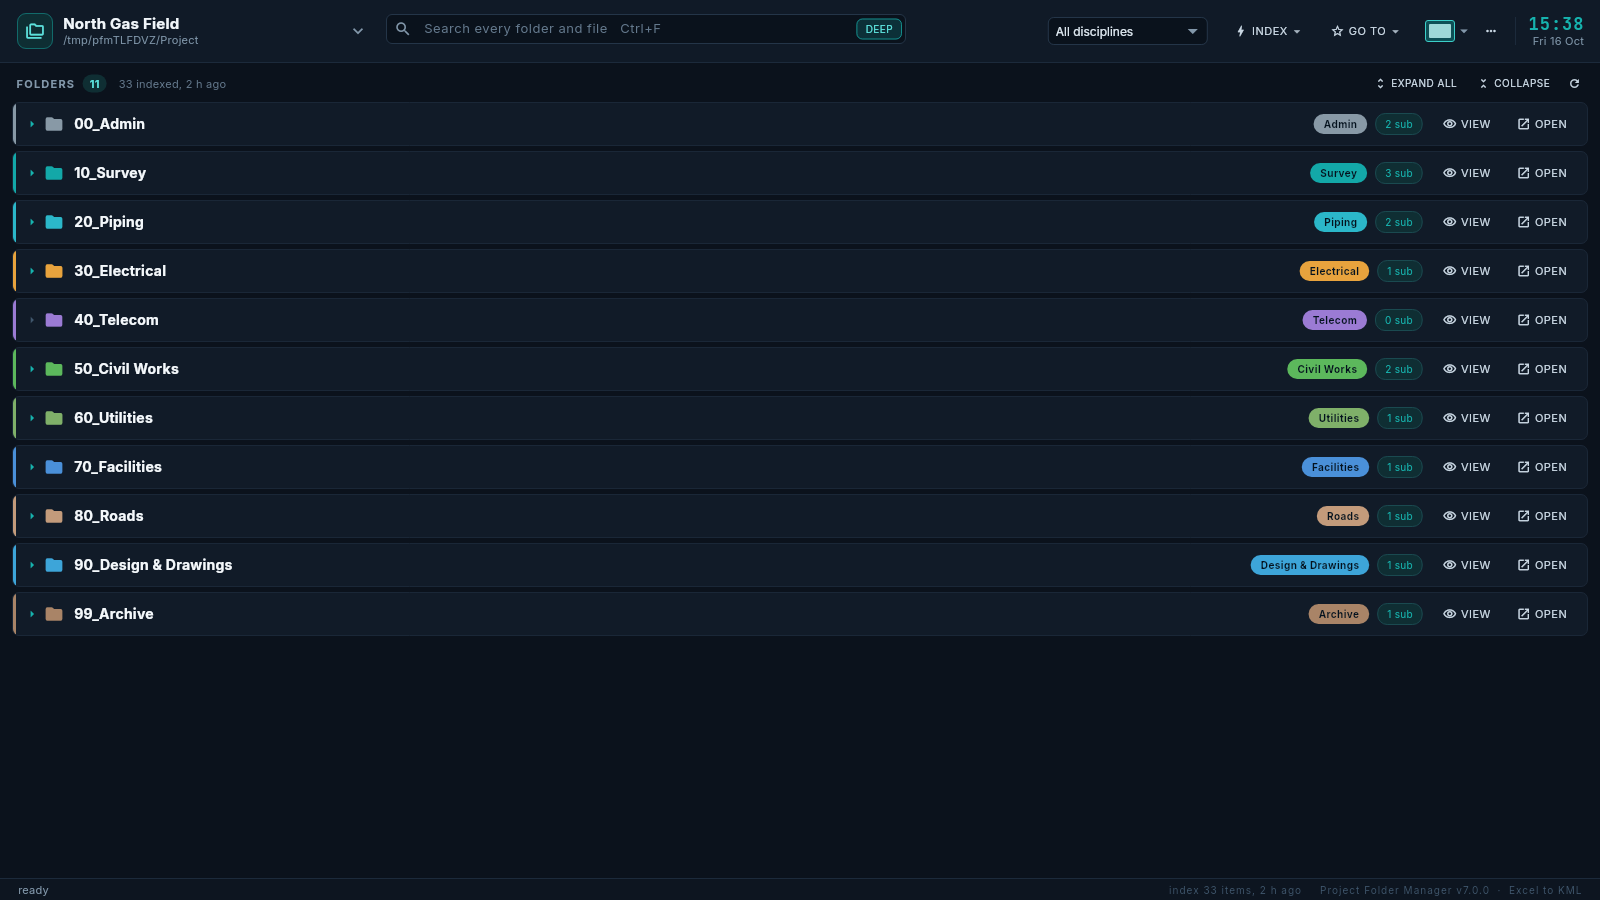
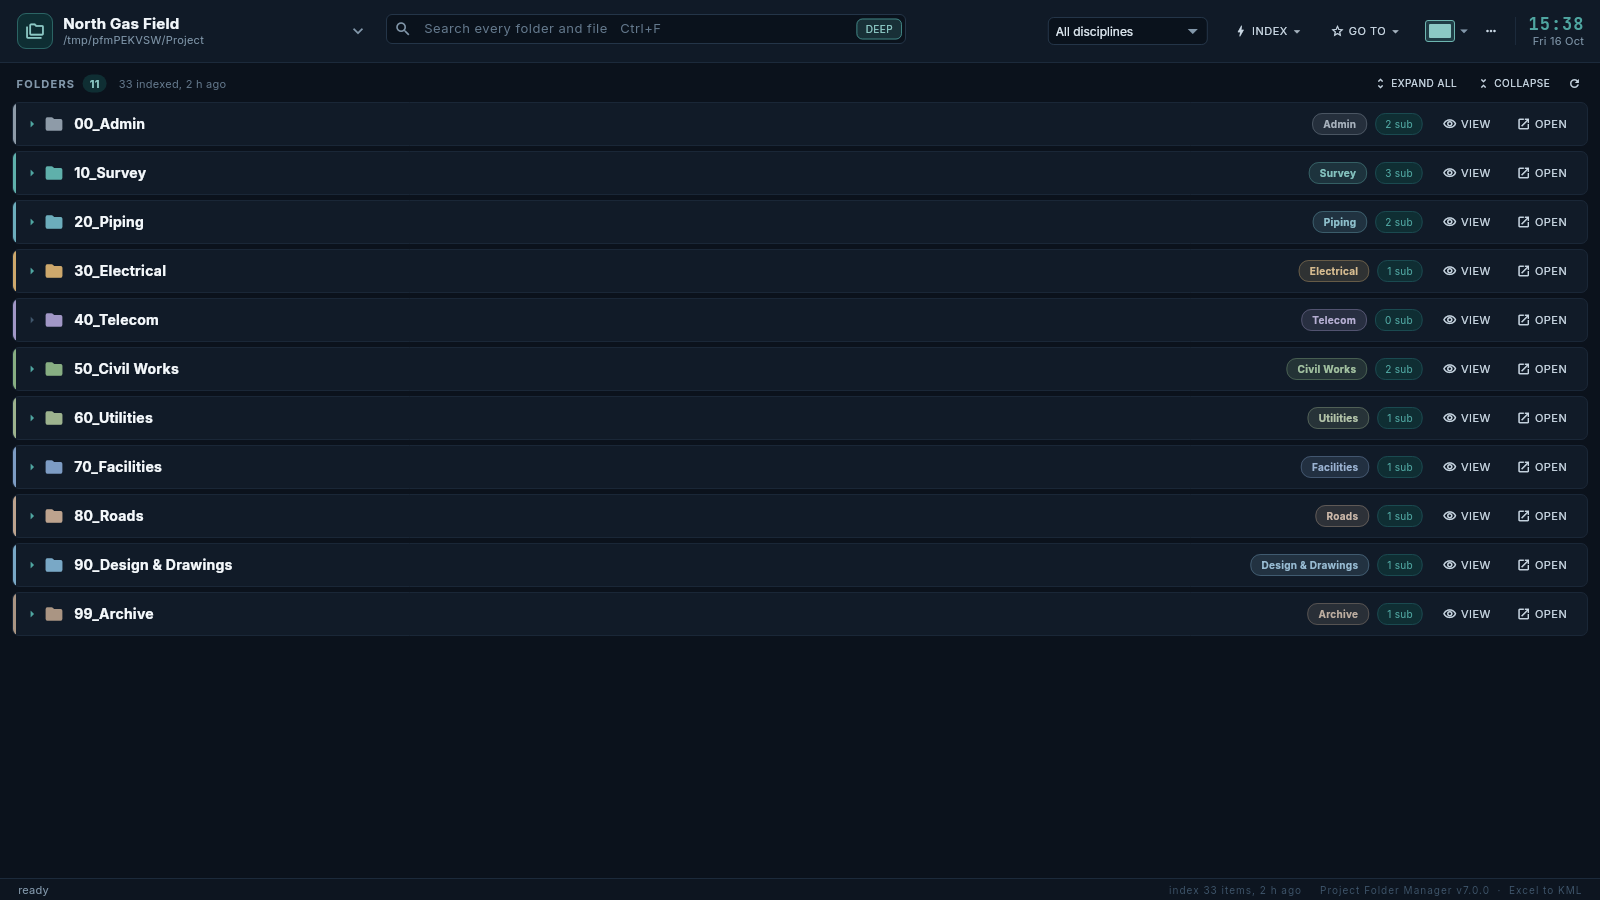
Softer colours: muted teal, amber and disciplines; tinted chips
- Teal, amber, red and green are calmer; the disciplines and file types
  use muted versions of the same hues.
- Discipline and file-type chips are a soft tint with a light border
  instead of a solid bright block; the discipline picker matches.
- Buttons no longer flash solid teal under the mouse: a soft tint, and
  the main action only brightens a little.

Claude-Session: https://claude.ai/code/session_01WBEY1H8rXcGm4de5BZo5nb

diff --git a/lib/src/ui/widgets.dart b/lib/src/ui/widgets.dart
@@ -54,22 +54,22 @@ class _BtnState extends State<Btn> {
     Gradient? g;
     Color bg, fg, edge;
     if (ghost) {
-      bg = widget.lit ? const Color(0x3313A8A8) : (hot ? const Color(0x2213A8A8) : Colors.transparent);
+      bg = widget.lit ? C.teal.withValues(alpha: .2) : (hot ? C.teal.withValues(alpha: .13) : Colors.transparent);
       fg = widget.lit || hot ? C.tealHi : C.btnText;
       edge = widget.lit ? C.teal.withValues(alpha: .7) : (hot ? C.fieldEdge : Colors.transparent);
     } else if (hot && kind == BtnKind.amber) {
-      bg = C.amber;
-      fg = const Color(0xFF241A00);
-      edge = C.amberHi;
-    } else if (hot) {
-      bg = C.teal;
-      fg = C.ink;
-      edge = C.tealEdge;
+      bg = C.amber.withValues(alpha: .2);
+      fg = C.amberHi;
+      edge = C.amber.withValues(alpha: .7);
     } else if (kind == BtnKind.on) {
-      bg = C.onTop;
-      g = const LinearGradient(begin: Alignment.topCenter, end: Alignment.bottomCenter, colors: [C.onTop, C.onBottom]);
+      // the main action: a soft teal, a little brighter under the mouse
+      bg = hot ? C.tealEdge : C.onTop;
       fg = C.ink;
-      edge = C.tealEdge;
+      edge = hot ? C.tealHi : C.tealEdge;
+    } else if (hot) {
+      bg = C.teal.withValues(alpha: .16);
+      fg = C.tealHi;
+      edge = C.teal.withValues(alpha: .7);
     } else {
       bg = C.btnTop;
       g = const LinearGradient(
@@ -289,10 +289,14 @@ class DisciplineChip extends StatelessWidget {
         message: onTap == null ? discipline : 'Change the discipline',
         child: Container(
           padding: const EdgeInsets.symmetric(horizontal: 10, vertical: 3),
-          decoration: BoxDecoration(color: disciplineColor(discipline), borderRadius: BorderRadius.circular(10)),
+          decoration: BoxDecoration(
+            color: disciplineColor(discipline).withValues(alpha: .16),
+            border: Border.all(color: disciplineColor(discipline).withValues(alpha: .35)),
+            borderRadius: BorderRadius.circular(10),
+          ),
           child: Text(
             discipline,
-            style: t(10, color: C.ink, w: FontWeight.bold, ls: .4),
+            style: t(10, color: Color.lerp(disciplineColor(discipline), C.white, .25)!, w: FontWeight.w600, ls: .3),
           ),
         ),
       ),
@@ -326,11 +330,15 @@ class ExtChip extends StatelessWidget {
     return Container(
       constraints: const BoxConstraints(minWidth: 40),
       padding: const EdgeInsets.symmetric(horizontal: 7, vertical: 1),
-      decoration: BoxDecoration(color: c ?? C.chipGrey, borderRadius: BorderRadius.circular(3)),
+      decoration: BoxDecoration(
+        color: (c ?? C.chipGrey).withValues(alpha: .18),
+        border: Border.all(color: (c ?? C.chipGrey).withValues(alpha: .35)),
+        borderRadius: BorderRadius.circular(4),
+      ),
       child: Text(
         extLabel(fileName),
         textAlign: TextAlign.center,
-        style: t(9, color: c == null ? C.btnText : C.ink, w: FontWeight.bold, h: 1.5),
+        style: t(9, color: Color.lerp(c ?? C.btnText, C.white, .2)!, w: FontWeight.w600, h: 1.5),
       ),
     );
   }
@@ -394,7 +402,7 @@ class LayoutPicture extends StatelessWidget {
     width: 30,
     height: 22,
     decoration: BoxDecoration(
-      color: on ? const Color(0xFF0E4F55) : C.btnBottom,
+      color: on ? C.teal.withValues(alpha: .25) : C.btnBottom,
       border: Border.all(color: on ? C.tealEdge : C.fieldEdge),
       borderRadius: BorderRadius.circular(3),
     ),
@@ -408,9 +416,7 @@ class LayoutPicture extends StatelessWidget {
             height: r[3].toDouble(),
             child: Container(
               decoration: BoxDecoration(
-                color: r[4] == 1
-                    ? (on ? C.amberHi : C.amber)
-                    : (on ? const Color(0xFF9FD8D8) : const Color(0xFF4F7A96)),
+                color: r[4] == 1 ? (on ? C.amberHi : C.amber) : (on ? C.tealHi : const Color(0xFF5B7489)),
                 borderRadius: BorderRadius.circular(1),
               ),
             ),

diff --git a/lib/src/core/disciplines.dart b/lib/src/core/disciplines.dart
@@ -4,23 +4,23 @@ import 'dart:ui' show Color;
 
 /// Every discipline a module can have, in the order the picker shows them
 const disciplines = <String, Color>{
-  'Admin': Color(0xFF8899A6),
-  'Survey': Color(0xFF13A8A8),
-  'Piping': Color(0xFF2BB7C9),
-  'Electrical': Color(0xFFE8A33D),
-  'Telecom': Color(0xFF9B7BD4),
-  'Civil Works': Color(0xFF5CB85C),
-  'Utilities': Color(0xFF7FB069),
-  'Facilities': Color(0xFF4A90D9),
-  'Roads': Color(0xFFC39B7B),
-  'Design & Drawings': Color(0xFF3DA5D9),
-  'Archive': Color(0xFFA98467),
-  'Mechanical': Color(0xFF4A90D9),
-  'HSE': Color(0xFFE8734A),
-  'QA / QC': Color(0xFFD4C13D),
-  'Documents & Reports': Color(0xFFC39B7B),
-  'Correspondence': Color(0xFFE85A9B),
-  uncategorised: Color(0xFF6C7A89),
+  'Admin': Color(0xFF8E9BA8),
+  'Survey': Color(0xFF5FB0AB),
+  'Piping': Color(0xFF6CADBC),
+  'Electrical': Color(0xFFCDA86C),
+  'Telecom': Color(0xFFA197C6),
+  'Civil Works': Color(0xFF87AE82),
+  'Utilities': Color(0xFF9DB38E),
+  'Facilities': Color(0xFF7D9CC4),
+  'Roads': Color(0xFFBDA38E),
+  'Design & Drawings': Color(0xFF79A8C6),
+  'Archive': Color(0xFFAA9583),
+  'Mechanical': Color(0xFF8798C2),
+  'HSE': Color(0xFFC7917D),
+  'QA / QC': Color(0xFFC0B47A),
+  'Documents & Reports': Color(0xFFB9A792),
+  'Correspondence': Color(0xFFC291A9),
+  uncategorised: Color(0xFF7D8894),
 };
 
 const uncategorised = 'Uncategorised';
@@ -56,29 +56,29 @@ String guessDiscipline(String folderName) {
 }
 
 const _extColors = <String, Color>{
-  'dwg': Color(0xFFF5A524),
-  'dxf': Color(0xFFF5A524),
-  'pdf': Color(0xFFE8574A),
-  'xls': Color(0xFF5CB85C),
-  'xlsx': Color(0xFF5CB85C),
-  'xlsm': Color(0xFF5CB85C),
-  'csv': Color(0xFF5CB85C),
-  'doc': Color(0xFF4A90D9),
-  'docx': Color(0xFF4A90D9),
-  'ppt': Color(0xFFE8734A),
-  'pptx': Color(0xFFE8734A),
-  'jpg': Color(0xFFB07BD4),
-  'jpeg': Color(0xFFB07BD4),
-  'png': Color(0xFFB07BD4),
-  'tif': Color(0xFFB07BD4),
-  'zip': Color(0xFF8899A6),
-  'rar': Color(0xFF8899A6),
+  'dwg': Color(0xFFCDA86C),
+  'dxf': Color(0xFFCDA86C),
+  'pdf': Color(0xFFC98479),
+  'xls': Color(0xFF87AE82),
+  'xlsx': Color(0xFF87AE82),
+  'xlsm': Color(0xFF87AE82),
+  'csv': Color(0xFF87AE82),
+  'doc': Color(0xFF7D9CC4),
+  'docx': Color(0xFF7D9CC4),
+  'ppt': Color(0xFFC7917D),
+  'pptx': Color(0xFFC7917D),
+  'jpg': Color(0xFFA197C6),
+  'jpeg': Color(0xFFA197C6),
+  'png': Color(0xFFA197C6),
+  'tif': Color(0xFFA197C6),
+  'zip': Color(0xFF8E9BA8),
+  'rar': Color(0xFF8E9BA8),
   'txt': Color(0xFF9FB6C7),
-  'kml': Color(0xFF13A8A8),
-  'kmz': Color(0xFF13A8A8),
-  'gsi': Color(0xFF13A8A8),
-  'dat': Color(0xFF13A8A8),
-  'xml': Color(0xFFC39B7B),
+  'kml': Color(0xFF5FB0AB),
+  'kmz': Color(0xFF5FB0AB),
+  'gsi': Color(0xFF5FB0AB),
+  'dat': Color(0xFF5FB0AB),
+  'xml': Color(0xFFBDA38E),
 };
 
 /// A file's extension, lower case, without the dot; '' when it has none (".gitignore" has none)

diff --git a/lib/src/ui/theme.dart b/lib/src/ui/theme.dart
@@ -6,14 +6,14 @@ abstract final class C {
   static const bg = Color(0xFF0B121C);
   static const text = Color(0xFFDCE6EE);
   static const white = Color(0xFFF4F8FB);
-  static const teal = Color(0xFF16B3AE);
-  static const tealHi = Color(0xFF5CE1DC);
-  static const tealEdge = Color(0xFF3CCFC9);
-  static const amber = Color(0xFFF5A524);
-  static const amberHi = Color(0xFFFFC860);
-  static const gold = Color(0xFFD99A2B);
-  static const red = Color(0xFFE8734A);
-  static const green = Color(0xFF5CB85C);
+  static const teal = Color(0xFF4FA6A1);
+  static const tealHi = Color(0xFF8CC9C5);
+  static const tealEdge = Color(0xFF6DB5B0);
+  static const amber = Color(0xFFCFA766);
+  static const amberHi = Color(0xFFDDBE88);
+  static const gold = Color(0xFFC4A06A);
+  static const red = Color(0xFFC98A76);
+  static const green = Color(0xFF87AE82);
   static const ink = Color(0xFF04121E); // text on a bright button
   static const label = Color(0xFF8297AA);
   static const muted = Color(0xFF64798D);
@@ -36,8 +36,8 @@ abstract final class C {
   static const btnTop = Color(0xFF172536);
   static const btnBottom = Color(0xFF172536);
   static const btnText = Color(0xFFCAD8E4);
-  static const onTop = Color(0xFF16B3AE);
-  static const onBottom = Color(0xFF16B3AE);
+  static const onTop = Color(0xFF4FA6A1);
+  static const onBottom = Color(0xFF4FA6A1);
 
   static const rowTop = Color(0xFF111B28);
   static const rowBottom = Color(0xFF111B28);
@@ -73,9 +73,9 @@ abstract final class C {
   static const driveStrip = Color(0xFF0D1520);
   static const driveStripEdge = Color(0xFF1A2737);
   static const barTrack = Color(0xFF0A1420);
-  static const barOk = Color(0xFF2F9F8F);
-  static const barMid = Color(0xFFC9A227);
-  static const barHot = Color(0xFFC0603C);
+  static const barOk = Color(0xFF5E9E95);
+  static const barMid = Color(0xFFBFA45E);
+  static const barHot = Color(0xFFB97E68);
 
   static const chipGrey = Color(0xFF3A4A58);
 }
@@ -119,7 +119,7 @@ ThemeData pfmTheme() {
   return base.copyWith(
     textSelectionTheme: const TextSelectionThemeData(
       cursorColor: C.teal,
-      selectionColor: Color(0x8013A8A8),
+      selectionColor: Color(0x664FA6A1),
       selectionHandleColor: C.teal,
     ),
     tooltipTheme: TooltipThemeData(

diff --git a/lib/src/ui/dialogs/dialogs.dart b/lib/src/ui/dialogs/dialogs.dart
@@ -294,14 +294,15 @@ Future<String?> pickDiscipline(BuildContext context, String moduleName, String c
                   child: Container(
                     padding: const EdgeInsets.symmetric(horizontal: 16, vertical: 9),
                     decoration: BoxDecoration(
-                      color: disciplineColor(d),
-                      borderRadius: BorderRadius.circular(4),
-                      border: d == current ? Border.all(color: C.white, width: 2) : null,
-                      boxShadow: h ? const [BoxShadow(color: Color(0xFF99FFFF), blurRadius: 14)] : null,
+                      color: disciplineColor(d).withValues(alpha: h || d == current ? .3 : .16),
+                      borderRadius: BorderRadius.circular(8),
+                      border: Border.all(
+                        color: d == current ? C.white.withValues(alpha: .8) : disciplineColor(d).withValues(alpha: .45),
+                      ),
                     ),
                     child: Text(
                       d,
-                      style: t(12, color: C.ink, w: FontWeight.bold),
+                      style: t(12, color: Color.lerp(disciplineColor(d), C.white, .3)!, w: FontWeight.w600),
                     ),
                   ),
                 ),

diff --git a/lib/src/ui/top_bar.dart b/lib/src/ui/top_bar.dart
@@ -412,7 +412,7 @@ class _ViewPicker extends StatelessWidget {
             margin: const EdgeInsets.only(left: 4),
             padding: const EdgeInsets.fromLTRB(5, 4, 1, 4),
             decoration: BoxDecoration(
-              color: h ? const Color(0x2216B3AE) : null,
+              color: h ? C.teal.withValues(alpha: .13) : null,
               border: Border.all(color: h ? C.fieldEdge : Colors.transparent),
               borderRadius: BorderRadius.circular(radius),
             ),
